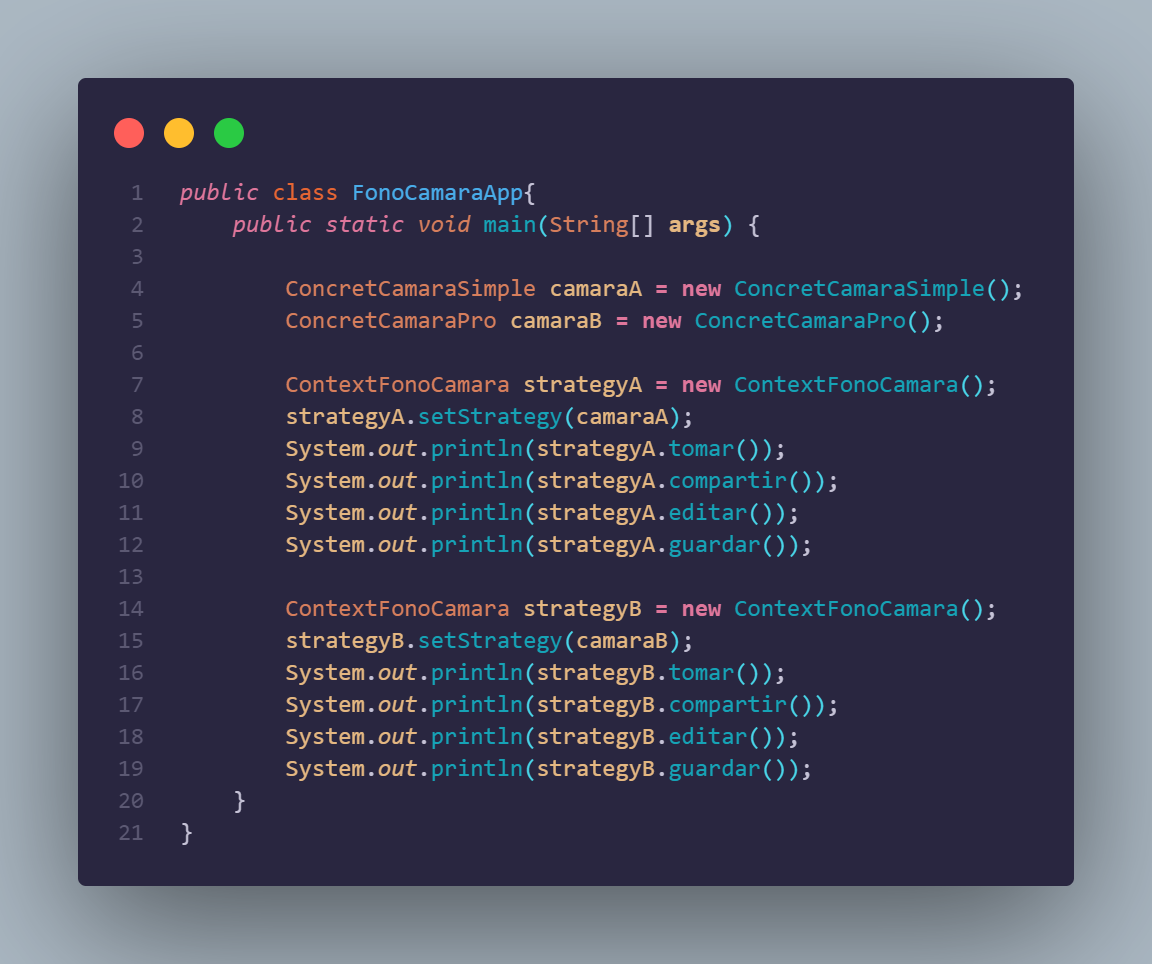
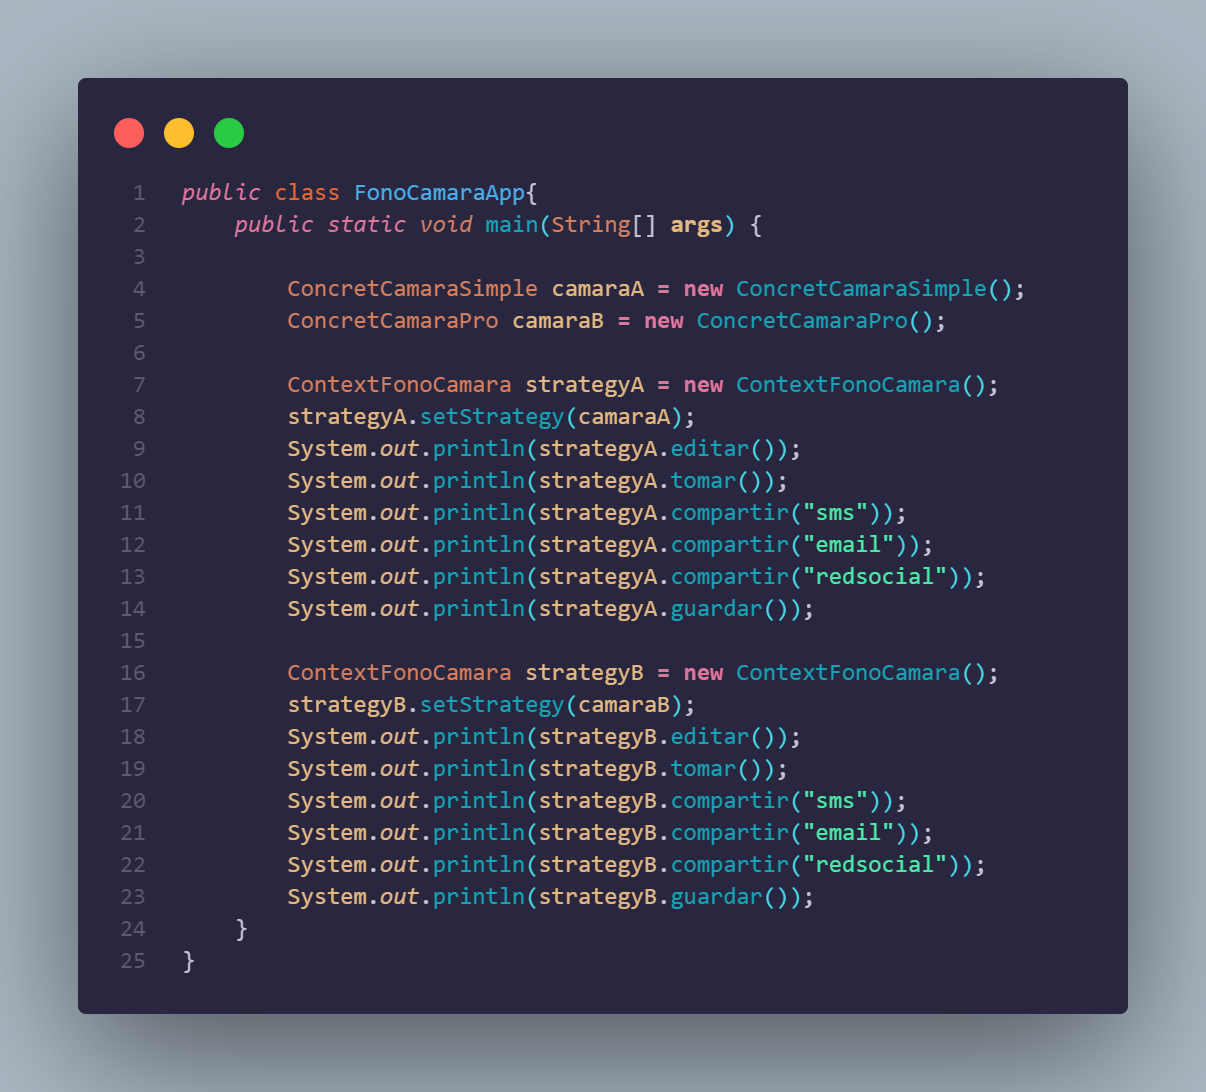
abstract + interfaz

Changed region(s): [[0.0625, 0.0622, 0.9375, 0.9336]]

diff --git a/Ejercicios/PatronStrategy-FonoCamaraApp/ContextFonoCamara.java b/Ejercicios/PatronStrategy-FonoCamaraApp/ContextFonoCamara.java
@@ -1,19 +1,35 @@
 public class ContextFonoCamara {
     public IFonoCamara camara;
 
-    public void setStrategy(IFonoCamara camara){
+    public void setStrategy(IFonoCamara camara) {
         this.camara = camara;
     }
-    public String tomar(){
-        return "Se tomo una foto";
+
+    public String compartir(String opcion) {
+        String tipo = null;
+        switch (opcion.toLowerCase()) {
+            case "sms":
+                tipo = this.camara.compartirPorSMS();
+                break;
+            case "email":
+                tipo = this.camara.compartirPorEmail();
+                break;
+            case "redsocial":
+                tipo = this.camara.compartirPorRedSocial();
+                break;
+        }
+        return tipo;
     }
-    public String compartir(){
-        return this.camara.compartir();
-    }
-    public String editar(){
+
+    public String editar() {
         return this.camara.editar();
     }
-    public String guardar(){
+
+    public String tomar() {
+        return "Se tomo una foto";
+    }
+
+    public String guardar() {
         return "Se guardo la foto";
     }
 }

diff --git a/Ejercicios/PatronStrategy-FonoCamaraApp/FonoCamaraApp.java b/Ejercicios/PatronStrategy-FonoCamaraApp/FonoCamaraApp.java
@@ -6,16 +6,20 @@ public class FonoCamaraApp{
               
         ContextFonoCamara strategyA = new ContextFonoCamara();
         strategyA.setStrategy(camaraA);
-        System.out.println(strategyA.tomar());
-        System.out.println(strategyA.compartir());
         System.out.println(strategyA.editar());
+        System.out.println(strategyA.tomar());
+        System.out.println(strategyA.compartir("sms"));
+        System.out.println(strategyA.compartir("email"));
+        System.out.println(strategyA.compartir("redsocial"));
         System.out.println(strategyA.guardar());
 
         ContextFonoCamara strategyB = new ContextFonoCamara();
         strategyB.setStrategy(camaraB);
-        System.out.println(strategyB.tomar());
-        System.out.println(strategyB.compartir());
         System.out.println(strategyB.editar());
+        System.out.println(strategyB.tomar());
+        System.out.println(strategyB.compartir("sms"));
+        System.out.println(strategyB.compartir("email"));
+        System.out.println(strategyB.compartir("redsocial"));       
         System.out.println(strategyB.guardar());
     }
 }

diff --git a/Ejercicios/PatronStrategy-FonoCamaraApp/ConcretCamaraSimple.java b/Ejercicios/PatronStrategy-FonoCamaraApp/ConcretCamaraSimple.java
@@ -1,8 +1,17 @@
-public class ConcretCamaraSimple implements IFonoCamara{
-    public String compartir(){
-        return "Se compartio la foto";
+public class ConcretCamaraSimple extends BaseEditar implements IFonoCamara {
+    public String compartirPorSMS() {
+        return "Se compartio la foto por SMS.";
     }
-    public String editar(){
-        return "Se edito la foto";
+
+    public String compartirPorEmail() {
+        return "Se compartio la foto por Email.";
+    }
+
+    public String compartirPorRedSocial() {
+        return "Se compartio la foto por Red Social.";
+    }
+
+    public String editar() {
+        return editarFoto();
     }
 }

diff --git a/Ejercicios/PatronStrategy-FonoCamaraApp/ConcretCamaraPro.java b/Ejercicios/PatronStrategy-FonoCamaraApp/ConcretCamaraPro.java
@@ -1,8 +1,17 @@
-public class ConcretCamaraPro implements IFonoCamara{
-    public String compartir(){
-        return "Se compartio la foto";
+public class ConcretCamaraPro extends BaseEditar implements IFonoCamara {
+    public String compartirPorSMS() {
+        return "Se compartio la foto por SMS.";
     }
-    public String editar(){
-        return "Se edito la foto";
+
+    public String compartirPorEmail() {
+        return "Se compartio la foto por Email.";
+    }
+
+    public String compartirPorRedSocial() {
+        return "Se compartio la foto por Red Social.";
+    }
+
+    public String editar() {
+        return editarFoto();
     }
 }

diff --git a/Ejercicios/PatronStrategy-FonoCamaraApp/IFonoCamara.java b/Ejercicios/PatronStrategy-FonoCamaraApp/IFonoCamara.java
@@ -1,4 +1,9 @@
 public interface IFonoCamara {
-    public String compartir();
+    public String compartirPorSMS();
+
+    public String compartirPorEmail();
+
+    public String compartirPorRedSocial();
+
     public String editar();
 }

diff --git a/Ejercicios/PatronStrategy-FonoCamaraApp/BaseEditar.java b/Ejercicios/PatronStrategy-FonoCamaraApp/BaseEditar.java
@@ -1,0 +1,5 @@
+public abstract class BaseEditar {
+    public String editarFoto() {
+        return "Se edito la foto.";
+    }
+}
